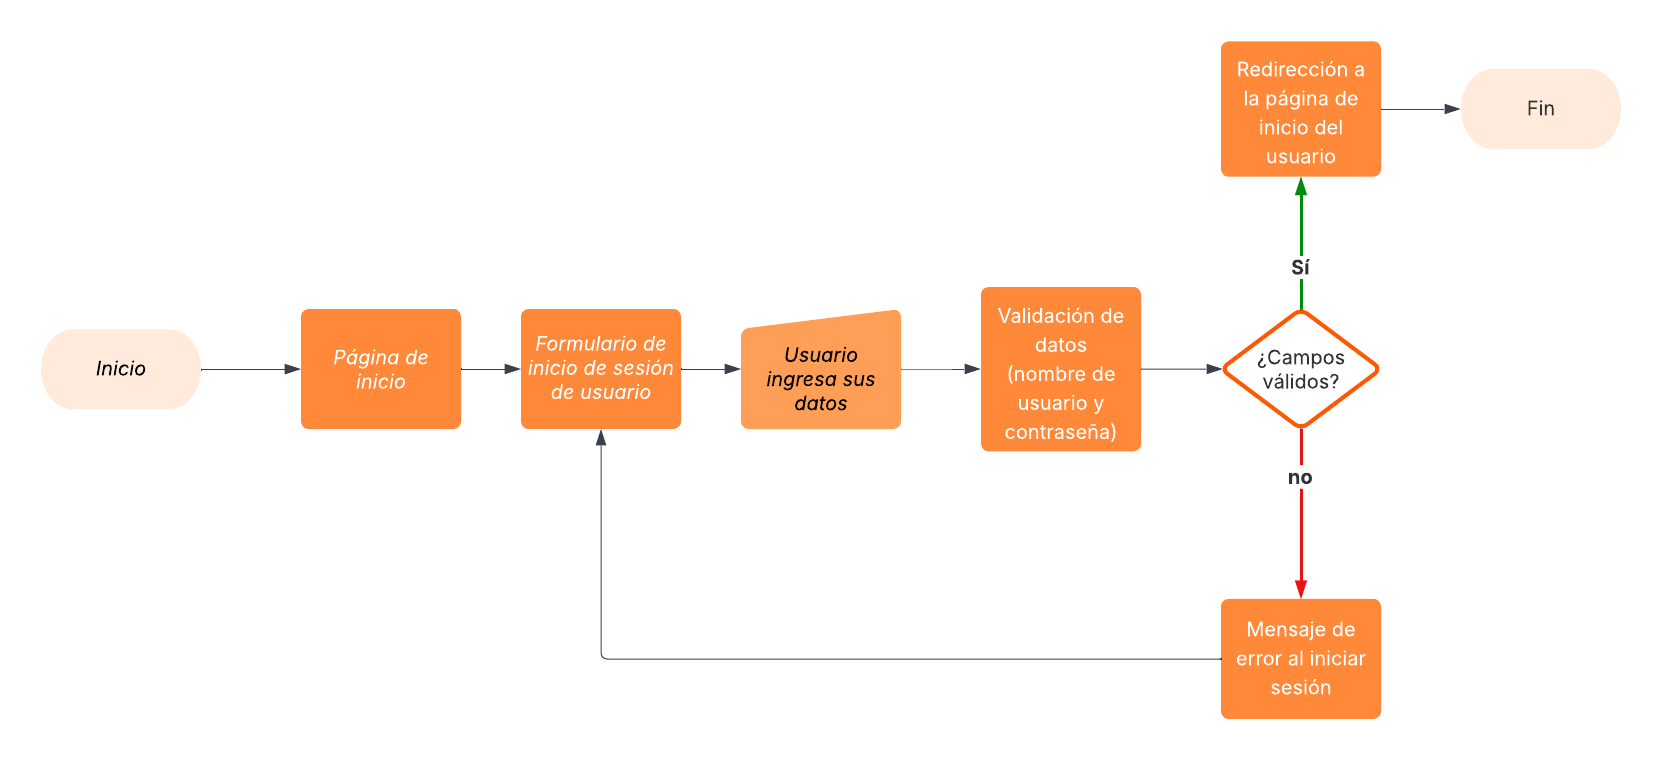
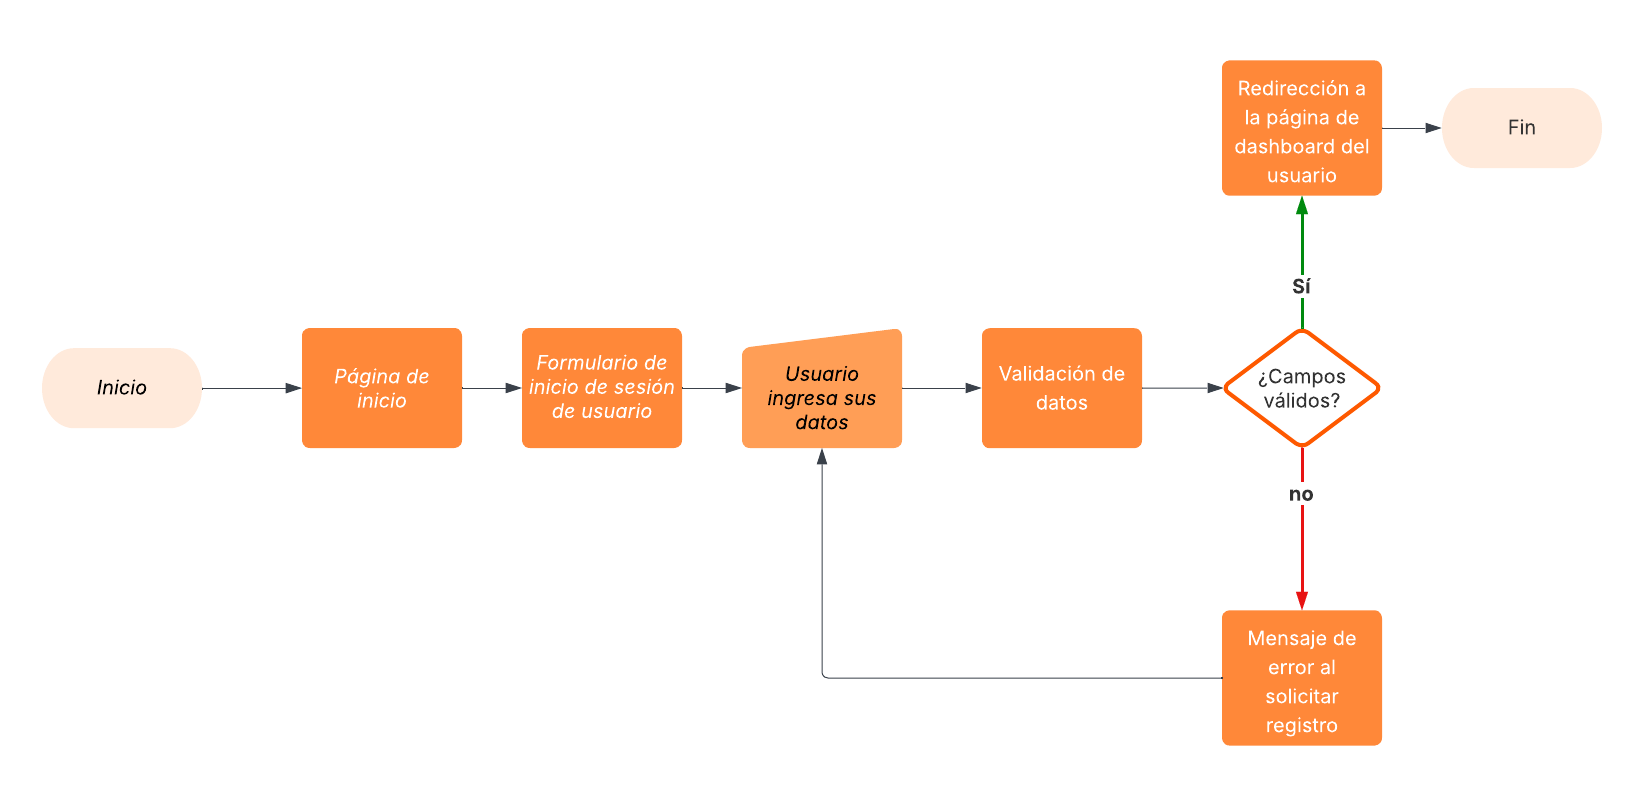
daiagramas

diff --git a/chapters/chapter04.tex b/chapters/chapter04.tex
@@ -1,5 +1,7 @@
 \chapter{Descripción}\label{chapter04}
 
+El presente capítulo desarrolla la descripción integral de la solución propuesta, abordando sus fundamentos conceptuales, técnicos y operativos. Se expone la forma en que la plataforma materializa los objetivos definidos en las etapas de análisis, describiendo los principales componentes que la conforman y la lógica que guía su funcionamiento. Asimismo, se presenta la manera en que las decisiones de diseño, arquitectura y desarrollo se articulan para garantizar la eficiencia, la escalabilidad y la confiabilidad del sistema.
+
 \section{Requerimientos}\label{sec:requerimientos}
 A continuación se presentan los requerimientos de la solución, organizados en dos categorías: requerimientos funcionales y no funcionales. Los requerimientos funcionales representan las operaciones y servicios que la plataforma debe ofrecer al usuario final, mientras que los no funcionales establecen criterios de calidad que condicionan la forma en que el sistema debe operar \parencite{ieee2008}.
 
@@ -23,7 +25,7 @@ Los requerimientos funcionales describen las acciones observables que el sistema
 Los requerimientos no funcionales especifican condiciones de calidad y restricciones técnicas que determinan cómo debe operar la solución, más allá de las funciones explícitas que ofrece \parencite{ieee2008}.
 \begin{enumerate}[label=\textbf{RNF\arabic*}, leftmargin=2.8cm]
     \item La interfaz debe ser adaptable (responsive) para asegurar su correcto uso en computadoras de escritorio, tablets y dispositivos móviles.
-    \item La aplicación debe garantizar disponibilidad continua ($24 \times 7$) para el acceso a predicciones, métricas e informes en cualquier momento.
+    \item La aplicación debe garantizar disponibilidad continua, las veinticuatro horas del día, los siete días de la semana, para el acceso a predicciones, métricas e informes en cualquier momento.
     \item El sistema debe ser compatible con los navegadores más utilizados (Google Chrome, Mozilla Firefox, Microsoft Edge y Safari) en sus versiones estables recientes.
     \item La infraestructura debe poder escalar automáticamente para soportar un crecimiento sostenido de usuarios sin afectar el rendimiento.
     \item El sistema debe desplegarse en una plataforma en la nube (por ejemplo, AWS Amplify) que garantice al menos un 99\% de disponibilidad mensual.
@@ -51,14 +53,12 @@ Un diagrama de caso de uso es una representación visual que muestra cómo los a
 Los diagramas de flujo o de procesos son herramientas visuales que representan de manera secuencial los pasos y decisiones que conforman un procedimiento. Su utilización permite clarificar la lógica del negocio, identificar posibles ineficiencias y redundancias, así como facilitar la comunicación entre los equipos técnicos y los usuarios. De esta manera, constituyen un recurso fundamental para comprender, analizar, documentar y mejorar procesos organizacionales \parencite{asq2025flowchart}.
 
 \subsubsection{Registro y Autenticación}
-
 Con el fin de garantizar la seguridad y la personalización de los datos, el acceso a la información y a las funcionalidades críticas de SmartStocker se encuentra restringido a usuarios autenticados. Para ello, la plataforma implementa un flujo de registro inicial y un mecanismo de inicio de sesión que permite identificar de manera única a cada restaurante o local gastronómico.
 
-En la etapa de registro, el usuario debe proporcionar credenciales seguras junto con los datos básicos de su establecimiento. Una vez verificados y almacenados en la base de datos, se habilita la creación de una cuenta que asegura un entorno exclusivo para la gestión de inventario y el análisis de ventas.
-
+Durante la etapa de registro, el usuario completa un formulario en línea con los datos básicos del negocio.Estos datos son validados por el sistema para comprobar su integridad y formato. En caso de inconsistencias, el sistema informa los errores y solicita su corrección antes de continuar. Si la información ingresada es válida, SmartStocker redirige al usuario a la página de inicio y registra la solicitud correspondiente. Posteriormente, la empresa valida y aprueba el alta del negocio, enviando un correo electrónico con las credenciales definitivas de acceso y confirmando la activación de la cuenta en el entorno B2B. Este proceso garantiza que cada registro corresponda efectivamente a un establecimiento gastronómico verificado, asegurando así la integridad de la red y la trazabilidad de los datos administrados por la plataforma.
 \begin{figure}[htbp]
     \centering
-    \includegraphics[width=0.7\textwidth]{images/DiagramaRegistroDeUsuario.png}
+    \includegraphics[width=1\textwidth]{images/DiagramaRegistroDeUsuarioB2B.png}
     \caption{Flujo de Registro del Usuario.}
     {\textit{Fuente: Elaboración propia.}}
     \label{fig:flujo-registro}
@@ -68,7 +68,7 @@ Posteriormente, mediante la autenticación, los usuarios acceden a su espacio de
 
 \begin{figure}[htbp]
     \centering
-    \includegraphics[width=0.7\textwidth]{images/DiagramaInicioDeSesion.png}
+    \includegraphics[width=1\textwidth]{images/DiagramaInicioDeSesion.png}
     \caption{Flujo de Autenticación del Usuario.}
     {\textit{Fuente: Elaboración propia.}}
     \label{fig:flujo-autenticacion}
